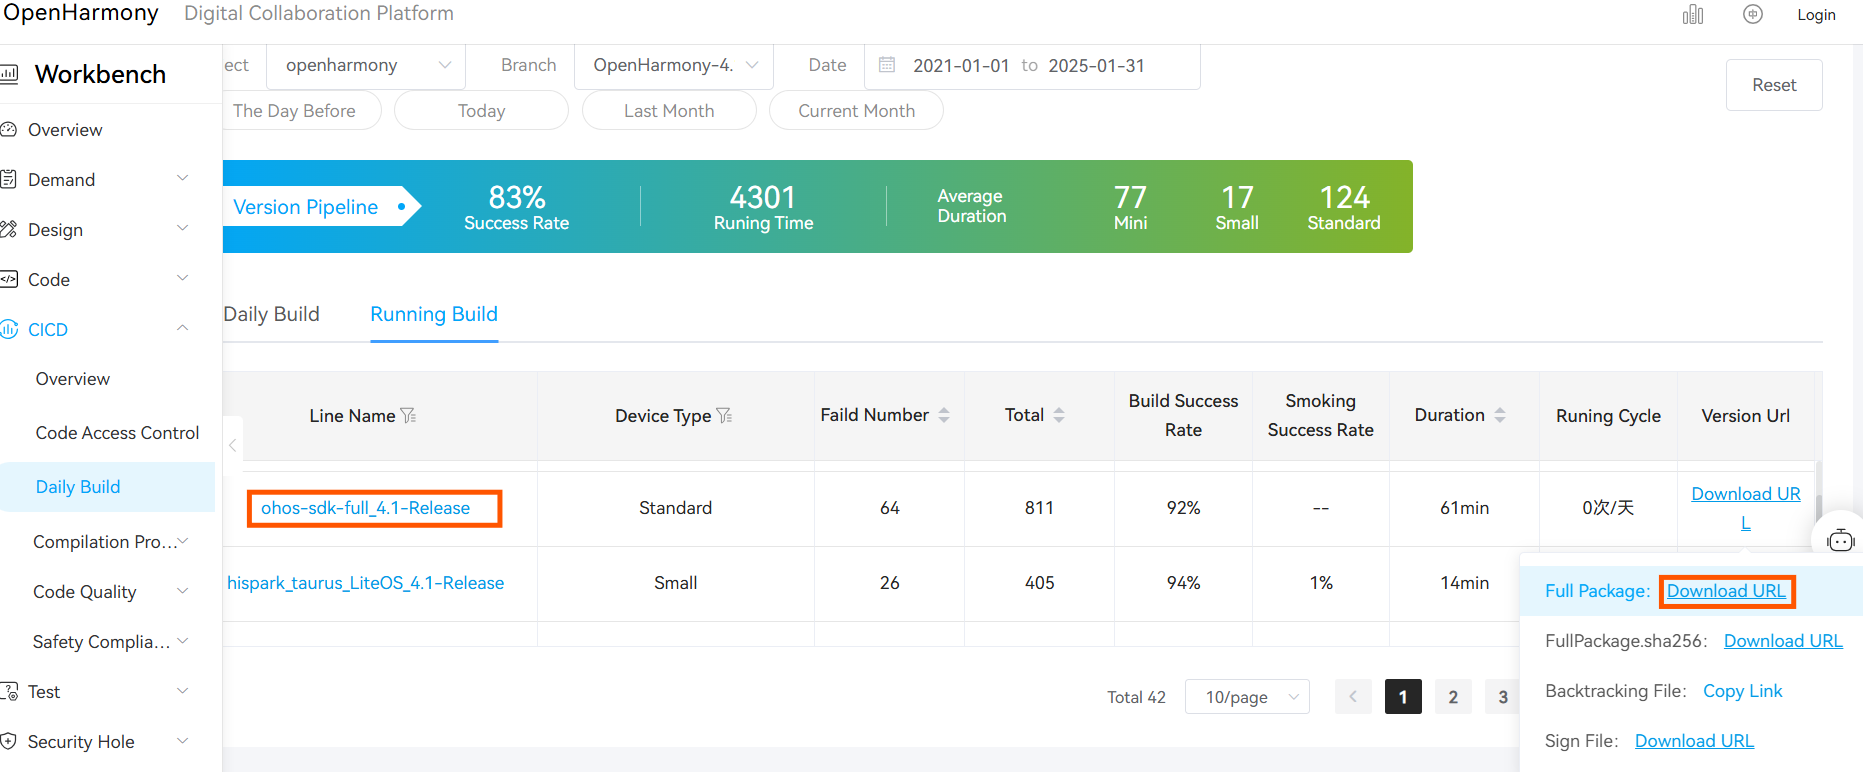
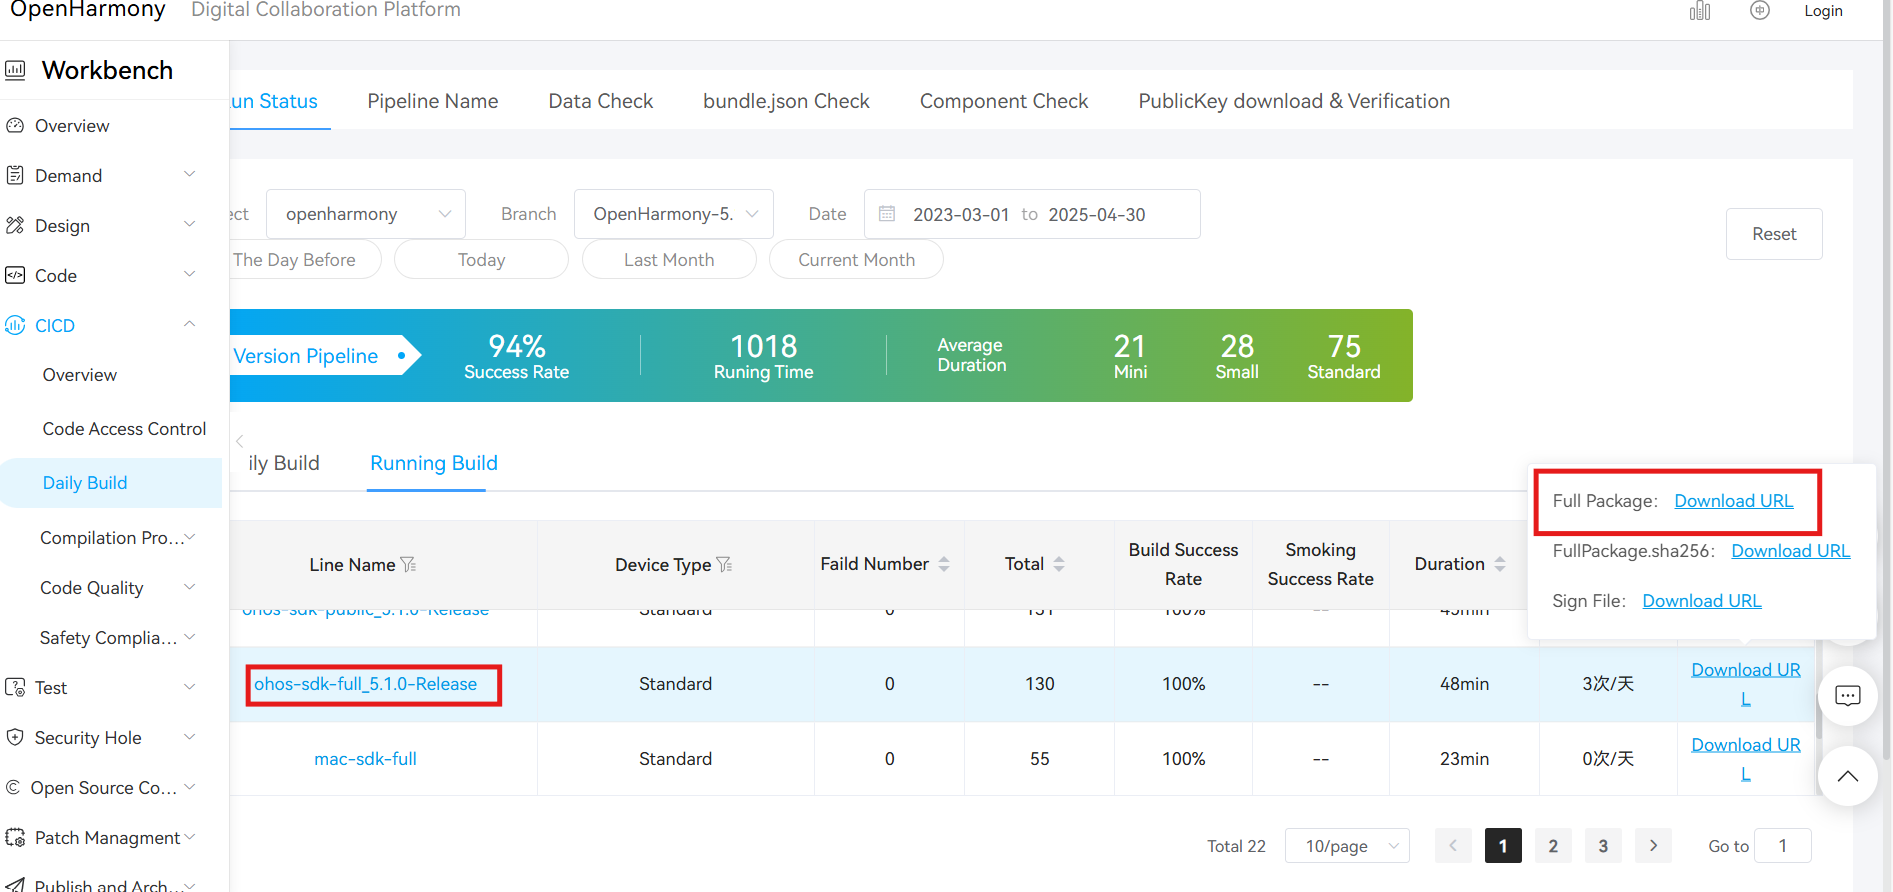
Update docs to OpenHarmony 5.1.0 version source

diff --git a/docs/application-development/environment-setup-config/full-public-sdk.md b/docs/application-development/environment-setup-config/full-public-sdk.md
@@ -13,13 +13,13 @@ There are two types of SDKs:
 
 1. Obtain the latest OpenHarmony SDK from the OpenHarmony daily build pipeline [Daily Build - OpenHarmony CI](https://ci.openharmony.cn/workbench/cicd/dailybuild/dailylist). The daily build pipeline builds system images, SDKs, etc.  
    
-   Use conditional filtering, such as selecting the project as openharmony, selecting the target branch OpenHarmony-4.1-Release, selecting a date from the previous month, or manually choosing a range.  
+   Use conditional filtering, such as selecting the project as openharmony, selecting the target branch OpenHarmony-5.1.0-Release, selecting a date from the previous month, or manually choosing a range.  
    
-   In the daily build or rolling build, find **ohos-sdk-full_4.1-Release**, and click on the download link to choose and download the full package, which includes Full-SDK for Windows and Linux.  (If daily build SDK is not compatible with your version of DevEco Studio, try to use rolling build SDK instead).  
+   In the daily build or rolling build, find **ohos-sdk-full_5.1.0-Release**, and click on the download link to choose and download the full package, which includes Full-SDK for Windows and Linux.  (If daily build SDK is not compatible with your version of DevEco Studio, try to use rolling build SDK instead).  
    
 !!! note "SDK Version Notice"
 
-    While this guide uses the `4.1-Release` version as an example, newer SDKs such as `5.0.0-Release` with **API version 12** are also available.
+    This guide uses the `5.1.0-Release` version as an example, corresponding to DevEco Studio 5.1.0.
 
     👉 Make sure to select the version that matches your development requirements.
 
@@ -39,7 +39,7 @@ There are two types of SDKs:
 
 #### Replace the Full SDK
 
-Take the replacement of the full SDK of DevEco Studio 4.1, API 11 on Windows OS as an example.
+Take the replacement of the full SDK of DevEco Studio 5.1.0, API 18 on Windows OS as an example.
 
 3. Backup and remove the local SDK:  
    Make sure to select OpenHarmony then navigate to the directory where the original SDK is installed.
@@ -47,31 +47,31 @@ Take the replacement of the full SDK of DevEco Studio 4.1, API 11 on Windows OS 
 
 
 
-Copy the entire SDK directory (e.g., 11) to another location on your system where you want to keep the backup.
+Copy the entire SDK directory (e.g., 18) to another location on your system where you want to keep the backup.
 
 Now you can remove the original SDK from its directory.
 
 1. The SDK you have acquired needs to be recognized by DevEco Studio in order to be used. 
-For example, with the daily build SDK: `version-Release_Version-OpenHarmony-4.1.10.3-20250415_034027-ohos-sdk-full_4.1-Release.tar.gz`, the compressed file has the following directory structure. 
+For example, with the daily build SDK: `version-Master_Version-OpenHarmony_5.1.0.103-20250415_020044-ohos-sdk-full_5.1.0-Release.tar.gz`, the compressed file has the following directory structure. 
 You can see that it contains SDK files for both Linux and Windows platforms. Each platform's SDK includes directories such as ets, js, native, previewer, and toolchains.
 ```
-├── version-Release_Version-OpenHarmony-4.1.10.3-20250415_034027-ohos-sdk-full_4.1-Release
+├── version-Master_Version-OpenHarmony_5.1.0.103-20250415_020044-ohos-sdk-full_5.1.0-Release
 │   ├── manifest_tag.xml
 │   └── ohos-sdk
 │       ├── linux
-│       │   ├── ets-linux-x64-4.1.10.3-Release.zip
-│       │   ├── js-linux-x64-4.1.10.3-Release.zip
-│       │   ├── native-linux-x64-4.1.10.3-Release.zip
-│       │   ├── previewer-linux-x64-4.1.10.3-Release.zip
-│       │   └── toolchains-linux-x64-4.1.10.3-Release.zip
+│       │   ├── ets-windows-x64-5.1.0.103-Beta1.zip
+│       │   ├── js-linux-x64-5.1.0.103-Beta1.zip
+│       │   ├── native-linux-x64-5.1.0.103-Beta1.zip
+│       │   ├── previewer-linux-x64-5.1.0.103-Beta1.zip
+│       │   └── toolchains-linux-x64-5.1.0.103-Beta1.zip
 │       └── windows
-│           ├── ets-windows-x64-4.1.10.3-Release.zip
-│           ├── js-windows-x64-4.1.10.3-Release.zip
-│           ├── native-windows-x64-4.1.10.3-Release.zip
-│           ├── previewer-windows-x64-4.1.10.3-Release.zip
-│           └── toolchains-windows-x64-4.1.10.3-Release.zip
+│           ├── ets-windows-x64-5.1.0.103-Beta1.zip
+│           ├── js-windows-x64-5.1.0.103-Beta1.zip
+│           ├── native-windows-x64-5.1.0.103-Beta1.zip
+│           ├── previewer-windows-x64-5.1.0.103-Beta1.zip
+│           └── toolchains-windows-x64-5.1.0.103-Beta1.zip
 ```
-2. Create a new directory with the API version 11  as the file name in dir path: xxx\\Sdk\\ , unzip the compressed files  into this directory to form a structure below:
+2. Create a new directory with the API version 18 as the file name in dir path: xxx\\Sdk\\ , unzip the compressed files  into this directory to form a structure below:
 <img src='../images/image21.png'>  
 
 3. Verify in the IDE:  

diff --git a/docs/application-development/basic-concepts/app-pack-structure.md b/docs/application-development/basic-concepts/app-pack-structure.md
@@ -23,9 +23,9 @@ The table below lists the main file types in the project structure.
 
 | File Type| Description|
 | -------- | -------- |
-| Configuration files| A collection of application-level and module-level configurations.<br> - **AppScope &gt; [app.json5](https://github.com/eclipse-oniro-mirrors/docs/blob/OpenHarmony-5.0.2-Release/en/application-dev/quick-start/app-configuration-file.md)**: application-wide configuration, such as the bundle name, version number, application icon, application name, and dependent SDK version number.<br> - **Module_name &gt; src &gt; main &gt; [module.json5](https://github.com/eclipse-oniro-mirrors/docs/blob/OpenHarmony-5.0.2-Release/en/application-dev/quick-start/module-configuration-file.md)**: basic information, supported device types, component information, and required permissions of the module.|
+| Configuration files| A collection of application-level and module-level configurations.<br> - **AppScope &gt; [app.json5](https://github.com/eclipse-oniro-mirrors/docs/blob/OpenHarmony-5.1.0-Release/en/application-dev/quick-start/app-configuration-file.md)**: application-wide configuration, such as the bundle name, version number, application icon, application name, and dependent SDK version number.<br> - **Module_name &gt; src &gt; main &gt; [module.json5](https://github.com/eclipse-oniro-mirrors/docs/blob/OpenHarmony-5.1.0-Release/en/application-dev/quick-start/module-configuration-file.md)**: basic information, supported device types, component information, and required permissions of the module.|
 | ArkTS source code files| **Module_name &gt; src &gt; main &gt; ets**: ArkTS source code files of the module.|
-| Resource files| A collection of application-level and module-level resource files, including images, multimedia, strings, and layout files. For details, see [Resource Categories and Access](https://github.com/eclipse-oniro-mirrors/docs/blob/OpenHarmony-5.0.2-Release/en/application-dev/quick-start/resource-categories-and-access.md).<br> - **AppScope &gt; resources**: resource files required for the application.<br> - **Module_name &gt; src &gt; main &gt; resources**: resource files required for the module.|
+| Resource files| A collection of application-level and module-level resource files, including images, multimedia, strings, and layout files. For details, see [Resource Categories and Access](https://github.com/eclipse-oniro-mirrors/docs/blob/OpenHarmony-5.1.0-Release/en/application-dev/quick-start/resource-categories-and-access.md).<br> - **AppScope &gt; resources**: resource files required for the application.<br> - **Module_name &gt; src &gt; main &gt; resources**: resource files required for the module.|
 | Other configuration files| A collection of files used for compilation and building, including build configuration files, build scripts, obfuscation rule files, and files declaring dependencies.<br> - **build-profile.json5**: project-level or module-level build configurations, including application signatures and product configurations.<br> - **hvigorfile.ts**: application-level or module-level build script. You can specify the compilation and build tool version and configuration parameters for controlling build behavior.<br> - **obfuscation-rules.txt**: obfuscation rule file. When obfuscation is enabled, DevEco Studio compiles, obfuscates, and compresses code during builds in Release mode.<br> - **oh-package.json5**: information about dependencies, including dependent third-party libraries and shared packages.|
 
 ## Selecting a File Type
@@ -56,4 +56,4 @@ There are two types of modules by usage scenario:
 
 
 ## Reference
-For additional information please refer to [Overview of Application Configuration Files in Stage Model](https://gitee.com/openharmony/docs/blob/master/en/application-dev/quick-start/application-configuration-file-overview-stage.md) and [Application Models](https://github.com/eclipse-oniro-mirrors/docs/blob/OpenHarmony-5.0.2-Release/en/application-dev/application-models/application-models.md)
+For additional information please refer to [Overview of Application Configuration Files in Stage Model](https://gitee.com/openharmony/docs/blob/master/en/application-dev/quick-start/application-configuration-file-overview-stage.md) and [Application Models](https://github.com/eclipse-oniro-mirrors/docs/blob/OpenHarmony-5.1.0-Release/en/application-dev/application-models/application-models.md)

diff --git a/docs/application-development/basic-concepts/introduction-to-arkts.md b/docs/application-development/basic-concepts/introduction-to-arkts.md
@@ -950,8 +950,8 @@ In the preceding example, the **Index** page contains two custom components. One
 - When the application exits, the following callbacks are executed in order: Index onPageHide -> MyComponent aboutToDisappear -> Child aboutToDisappear.
 
 ##### More Usage
-- [Custom Component Layout](https://github.com/eclipse-oniro-mirrors/docs/blob/OpenHarmony-5.0.2-Release/en/application-dev/quick-start/arkts-page-custom-components-layout.md)  
-- [Freezing a Custom Component](https://github.com/eclipse-oniro-mirrors/docs/blob/OpenHarmony-5.0.2-Release/en/application-dev/quick-start/arkts-custom-components-freeze.md)
+- [Custom Component Layout](https://github.com/eclipse-oniro-mirrors/docs/blob/OpenHarmony-5.1.0-Release/en/application-dev/quick-start/arkts-page-custom-components-layout.md)  
+- [Freezing a Custom Component](https://github.com/eclipse-oniro-mirrors/docs/blob/OpenHarmony-5.1.0-Release/en/application-dev/quick-start/arkts-custom-components-freeze.md)
 
 ### State Management
 In previous examples, most of the pages built are static pages, which are delivered to the end user without having to be processed. If you are building dynamic, interactive pages, you need to handle **state management**.
@@ -1090,7 +1090,7 @@ In the preceding figure, the decorators in the components area are used for stat
 ### Event Binding
 #### Universal Events
 
-This tutorial will introduce **Touchscreen Event** only, you can redirect the link to learn more like **[Focus Event](https://github.com/eclipse-oniro-mirrors/docs/blob/OpenHarmony-5.0.2-Release/en/application-dev/ui/arkts-common-events-focus-event.md)** and **[Keyboard and Mouse Event](https://github.com/eclipse-oniro-mirrors/docs/blob/OpenHarmony-5.0.2-Release/en/application-dev/ui/arkts-common-events-device-input-event.md)**.
+This tutorial will introduce **Touchscreen Event** only, you can redirect the link to learn more like **[Focus Event](https://github.com/eclipse-oniro-mirrors/docs/blob/OpenHarmony-5.1.0-Release/en/application-dev/ui/arkts-common-events-focus-event.md)** and **[Keyboard and Mouse Event](https://github.com/eclipse-oniro-mirrors/docs/blob/OpenHarmony-5.1.0-Release/en/application-dev/ui/arkts-common-events-device-input-event.md)**.
 
 **Touchscreen events** are events triggered when a finger or stylus is placed on, moved along, or lifted from a component. Events like [click event](#click-event), [touch event](#touch-event) are most often used.
 
@@ -1224,7 +1224,7 @@ You can bind to each component different gesture events and design the logic for
 
 **gesture** is a frequently used API for binding a gesture to a component.
 
-We don't expand it in this tutorial but you can check some examples [here](https://github.com/eclipse-oniro-mirrors/docs/blob/OpenHarmony-5.0.2-Release/en/application-dev/ui/arkts-gesture-events-binding.md) if interested.
+We don't expand it in this tutorial but you can check some examples [here](https://github.com/eclipse-oniro-mirrors/docs/blob/OpenHarmony-5.1.0-Release/en/application-dev/ui/arkts-gesture-events-binding.md) if interested.
 
 
 ### Rendering Control

diff --git a/docs/application-development/create-first-eclipse-oniro-app/create-template.md b/docs/application-development/create-first-eclipse-oniro-app/create-template.md
@@ -1,11 +1,11 @@
 To create a project in DevEco Studio:
 
-1. Double-click the DevEco Studio icon to begin.
+**1.** Double-click the DevEco Studio icon to begin.
 <div style="text-align:center">
     <img src='../images/image1.png' width='30%'>
 </div>
 
-2. In welcome page click `Create Project`.
+**2.** In welcome page click `Create Project`.
 <div style="text-align:center">
     <img src='../images/image2.png'>
 </div>
@@ -17,12 +17,9 @@ The **Create Project** window opens with template market provided by DevEco Stud
 
 In DevEco Studio, a project template serves as a blueprint for building specific types of apps. It defines the project structure and essential files, providing starter code to help you get started quickly.
 
-3. Make sure the `Application` tab is selected on the left bar, then choose `[OpenHarmony]Empty Ability` as project template and click `Next`.
-<div style="text-align:center">
-    <img src='../images/image4.png'>
-</div>
+**3.** Make sure the `Application` tab is selected on the left bar, then choose `Empty Ability` as project template and click `Next`.
 
-4. Configure your project with following information:  
+**4.** Configure your project with following information:  
 
 - The **Project name** field is used to enter the name of your project.
 
@@ -30,7 +27,7 @@ In DevEco Studio, a project template serves as a blueprint for building specific
 
 - The **Save location** field specifies where all project files are stored, you can leave it as default.  
 
-- The **Compile SDK** specifies the API version used for compilation. By default, **API 11** is selected in our case, which also sets **ArkTS** as the development language.  
+- The **Compile SDK** specifies the API version used for compilation. By default, **API 18** is selected in our case, which also sets **ArkTS** as the development language.  
 
 - Select **Stage** for **Model** and keep the default values for all other parameters.
 
@@ -41,13 +38,13 @@ In DevEco Studio, a project template serves as a blueprint for building specific
     <img src='../images/image5.png'>
 </div>  
 
-5. Click `Finish` and wait for the project creation.
+**5.** Click `Finish` and wait for the project creation.
 
 <div style="text-align:center">
     <img src='../images/image6.png'>
 </div> 
 
-6. Click **Previewer** on the right sidebar of DevEco Studio to view both the code and design simultaneously.
+**6.** Click **Previewer** on the right sidebar of DevEco Studio to view both the code and design simultaneously.
 
 <div style="text-align:center">
     <img src='../images/image7.png'>

diff --git a/docs/application-development/basic-concepts/ui-development/layout.md b/docs/application-development/basic-concepts/ui-development/layout.md
@@ -1,6 +1,6 @@
 The declarative UI provides different common layouts like **Linear layout**, **Stack layout**, **Flex layout** and etc.
 
-In this chapter we will focus on **Linear Layout**, for additional information please refer to [layout overview](https://github.com/eclipse-oniro-mirrors/docs/blob/OpenHarmony-5.0.2-Release/en/application-dev/ui/arkts-layout-development-overview.md) documentation.
+In this chapter we will focus on **Linear Layout**, for additional information please refer to [layout overview](https://github.com/eclipse-oniro-mirrors/docs/blob/OpenHarmony-5.1.0-Release/en/application-dev/ui/arkts-layout-development-overview.md) documentation.
 
 **Linear layout** is the most frequently used layout in development, built with the **Row** and **Column** linear containers. The linear layout is the basis of other layouts. Its child elements are arranged in sequence linearly in the horizontal direction, as in a **Row** container, or vertical direction, as in a **Column** container.
 
@@ -605,4 +605,4 @@ Adaptive scaling means that the size of a child element is automatically adjuste
 </div>
 
 ## Reference
-For additional information please refer to [Linear Layout](https://github.com/eclipse-oniro-mirrors/docs/blob/OpenHarmony-5.0.2-Release/en/application-dev/ui/arkts-layout-development-linear.md)
+For additional information please refer to [Linear Layout](https://github.com/eclipse-oniro-mirrors/docs/blob/OpenHarmony-5.1.0-Release/en/application-dev/ui/arkts-layout-development-linear.md)

diff --git a/docs/application-development/basic-concepts/ui-development/component.md b/docs/application-development/basic-concepts/ui-development/component.md
@@ -357,4 +357,4 @@ Grid() {
     When **rowsTemplate** or **columnsTemplate** is set for the **Grid** component, its **layoutDirection**, **maxCount**, **minCount**, and **cellLength** attributes do not take effect.
 
 ## Additional Information
-For additional information please refer to [Creating a List](https://github.com/eclipse-oniro-mirrors/docs/blob/OpenHarmony-5.0.2-Release/en/application-dev/ui/arkts-layout-development-create-list.md) and [Creating a Grid](https://github.com/eclipse-oniro-mirrors/docs/blob/OpenHarmony-5.0.2-Release/en/application-dev/ui/arkts-layout-development-create-grid.md)
+For additional information please refer to [Creating a List](https://github.com/eclipse-oniro-mirrors/docs/blob/OpenHarmony-5.1.0-Release/en/application-dev/ui/arkts-layout-development-create-list.md) and [Creating a Grid](https://github.com/eclipse-oniro-mirrors/docs/blob/OpenHarmony-5.1.0-Release/en/application-dev/ui/arkts-layout-development-create-grid.md)

diff --git a/docs/application-development/resource-categories-and-access/index.md b/docs/application-development/resource-categories-and-access/index.md
@@ -7,4 +7,4 @@ During application development, you may need to use different resources, such as
 - **System resources**: Obtain the ID and configuration-specific values of colors, fonts, or other resources in [Resources](https://gitee.com/openharmony/docs/blob/master/en/design/ux-design/design-resources.md); obtain system icons in [HarmonyOS Symbol](https://developer.huawei.com/consumer/cn/design/harmonyos-symbol/).
 
 ## Reference
-For additional information please refer to the [Resource Categories and Access](https://github.com/eclipse-oniro-mirrors/docs/blob/OpenHarmony-5.0.2-Release/en/application-dev/quick-start/resource-categories-and-access.md) 
+For additional information please refer to the [Resource Categories and Access](https://github.com/eclipse-oniro-mirrors/docs/blob/OpenHarmony-5.1.0-Release/en/application-dev/quick-start/resource-categories-and-access.md) 

diff --git a/docs/application-development/create-first-eclipse-oniro-app/run-real-device.md b/docs/application-development/create-first-eclipse-oniro-app/run-real-device.md
@@ -1,8 +1,8 @@
 ### Install HDC  
 
 1. Find the [pipeline](https://ci.openharmony.cn/workbench/cicd/dailybuild/dailylist) whose name is ohos-sdk-full or ohos-sdk-public, click **Download Link**, and select **Full Package**.  
-   Use conditional filtering: select project `openharmony`, branch `OpenHarmony-4.1-Release`, and a date from the previous month or a manual range.  
-   Then find **ohos-sdk-full_4.1-Release**, and download the full package (Windows/Linux).  
+   Use conditional filtering: select project `openharmony`, branch `OpenHarmony-5.1.0-Release`, and a date from the previous month or a manual range.  
+   Then find **ohos-sdk-full_5.1.0-Release**, and download the full package (Windows/Linux).  
    *(If daily build SDK is not compatible with your DevEco Studio, try the rolling build SDK.)*
    ![Download SDK](images/image39.png){: .center}
 

diff --git a/docs/application-development/basic-concepts/state-management/observed-objectlink-decorator.md b/docs/application-development/basic-concepts/state-management/observed-objectlink-decorator.md
@@ -186,4 +186,4 @@ Event handle in **ViewC**:
 - The @ObjectLink decorated variable is read-only. Assigning **this.bookName = new bookName(...)** is not allowed. Once value assignment occurs, the reference to the data source is reset and the synchronization is interrupted.
 
 ### Additional Information
-For additional information please refer to the [ArkTS Observed and ObjectLink Decorator](https://github.com/eclipse-oniro-mirrors/docs/blob/OpenHarmony-5.0.2-Release/en/application-dev/quick-start/arkts-observed-and-objectlink.md)
+For additional information please refer to the [ArkTS Observed and ObjectLink Decorator](https://github.com/eclipse-oniro-mirrors/docs/blob/OpenHarmony-5.1.0-Release/en/application-dev/quick-start/arkts-observed-and-objectlink.md)

diff --git a/docs/application-development/basic-concepts/uiability/index.md b/docs/application-development/basic-concepts/uiability/index.md
@@ -13,4 +13,4 @@ You can develop a single UIAbility or multiple UIAbilities for your application 
 - If you want your application to be displayed as multiple missions in Recents or multiple windows to be opened simultaneously, use multiple UIAbilities.
 
 ## Additional Information
-For additional information please refer to [UIAbility](https://github.com/eclipse-oniro-mirrors/docs/blob/OpenHarmony-5.0.2-Release/en/application-dev/reference/apis-ability-kit/js-apis-app-ability-uiAbility.md)
+For additional information please refer to [UIAbility](https://github.com/eclipse-oniro-mirrors/docs/blob/OpenHarmony-5.1.0-Release/en/application-dev/reference/apis-ability-kit/js-apis-app-ability-uiAbility.md)

diff --git a/docs/application-development/basic-concepts/state-management/persistentstorage.md b/docs/application-development/basic-concepts/state-management/persistentstorage.md
@@ -142,4 +142,4 @@ if (AppStorage.get('aProp') > 50) {
 After reading the data stored in PersistentStorage, the sample code checks whether the value of **aProp** is greater than 50 and, if it is, sets **aProp** to **47** through an API in AppStorage.
 
 ### Additional Information
-For additional information please refer to the [ArkTS PersistStorage](https://github.com/eclipse-oniro-mirrors/docs/blob/OpenHarmony-5.0.2-Release/en/application-dev/quick-start/arkts-persiststorage.md)
+For additional information please refer to the [ArkTS PersistStorage](https://github.com/eclipse-oniro-mirrors/docs/blob/OpenHarmony-5.1.0-Release/en/application-dev/quick-start/arkts-persiststorage.md)

diff --git a/docs/application-development/basic-concepts/uiability/uiability-launch-type.md b/docs/application-development/basic-concepts/uiability/uiability-launch-type.md
@@ -78,4 +78,4 @@ The **specified** mode is used in some special scenarios. For example, in a docu
 
 In the following example, there are two UIAbility components: EntryAbility and SpecifiedAbility (with the launch type **specified**). 
 
-You can learn more about `Specified` from [this](https://github.com/eclipse-oniro-mirrors/docs/blob/OpenHarmony-5.0.2-Release/en/application-dev/application-models/uiability-launch-type.md#singleton) source.
+You can learn more about `Specified` from [this](https://github.com/eclipse-oniro-mirrors/docs/blob/OpenHarmony-5.1.0-Release/en/application-dev/application-models/uiability-launch-type.md#singleton) source.
